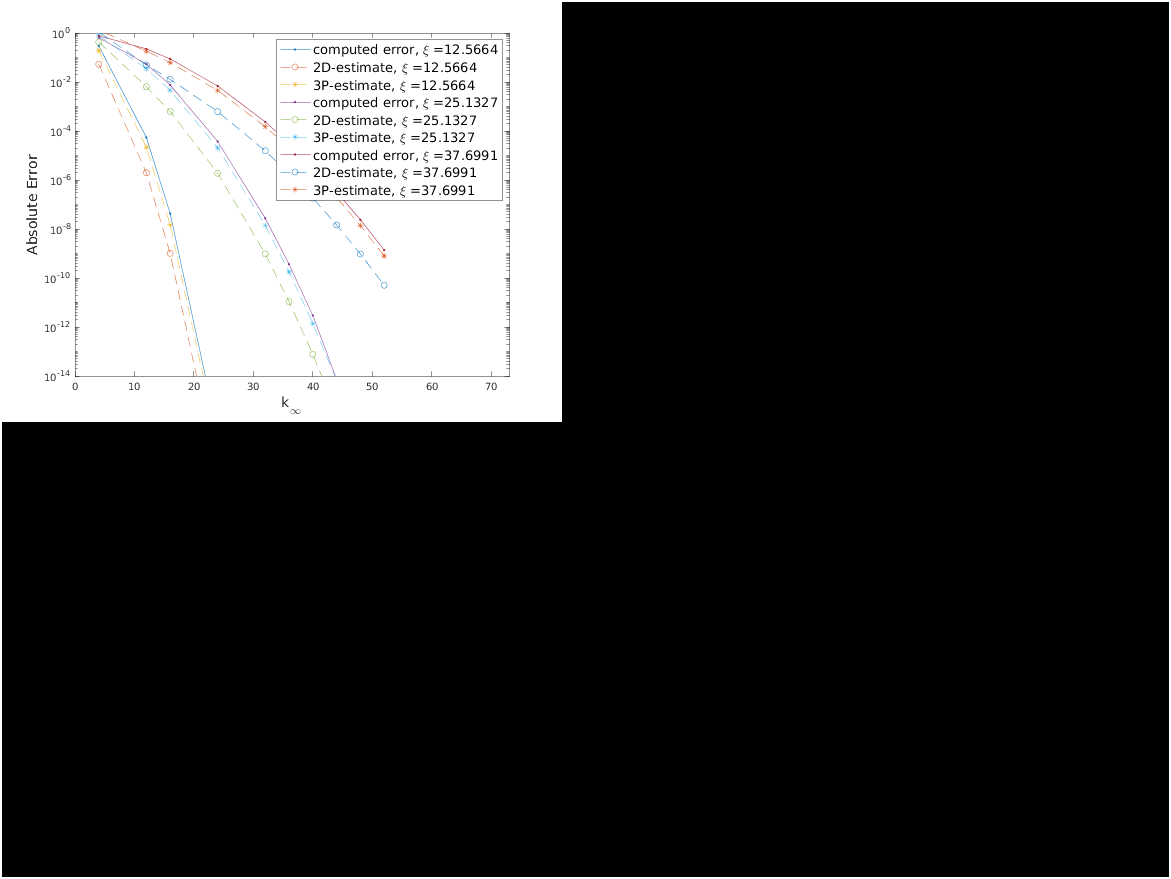
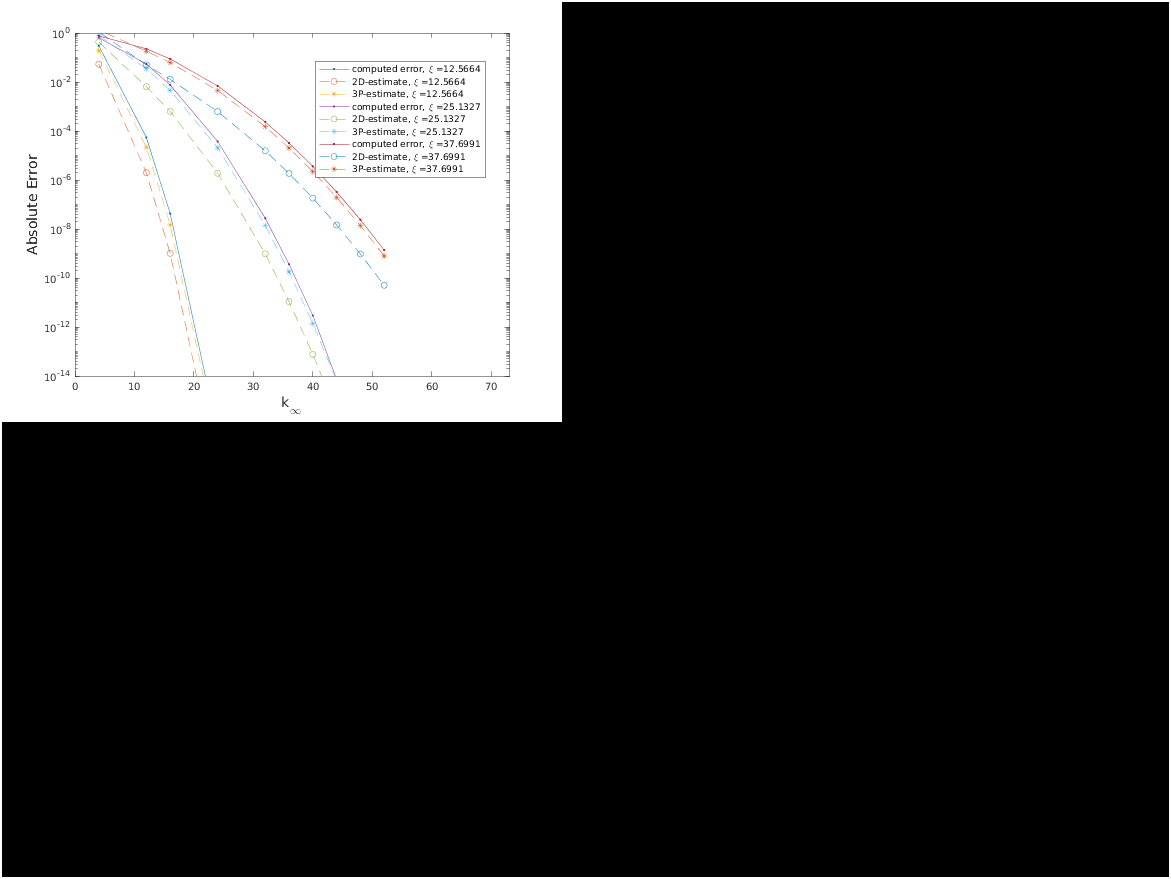
img

Changed region(s): [[0.2459, 0.0307, 0.4304, 0.2457]]

diff --git a/SE_Stokes_run/SE3P_Stokes/param_select.m b/SE_Stokes_run/SE3P_Stokes/param_select.m
@@ -114,7 +114,7 @@ for xi = xx
 end
 ylim([10^-14,1])
 xlim([0,73])
-legend(str{:},'Location','Best','FontSize',13)
+legend(str{:},'Location','Best')%,'FontSize',13)
 ylabel('Absolute Error','FontSize',14)
 xlabel('k_{\infty}','FontSize',14)
 %ylabel('\epsilon','FontSize',14)
